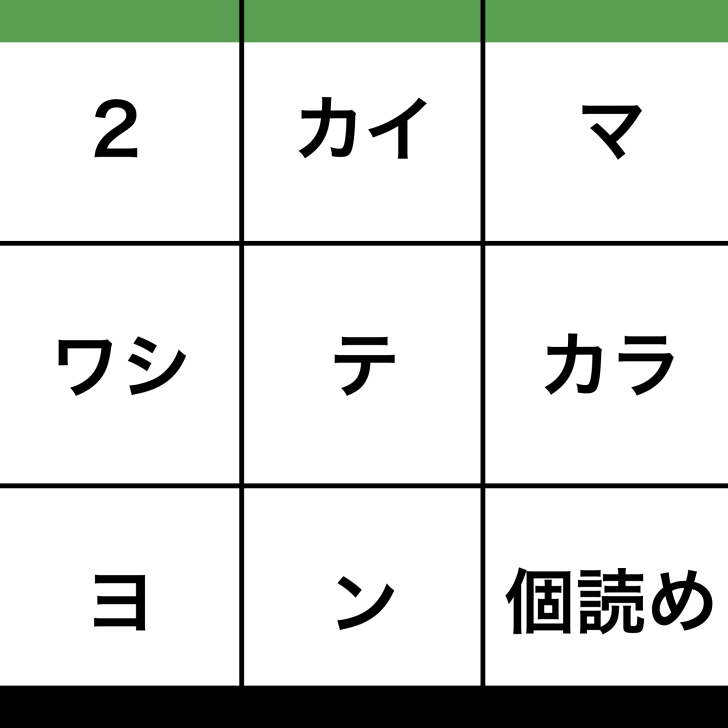
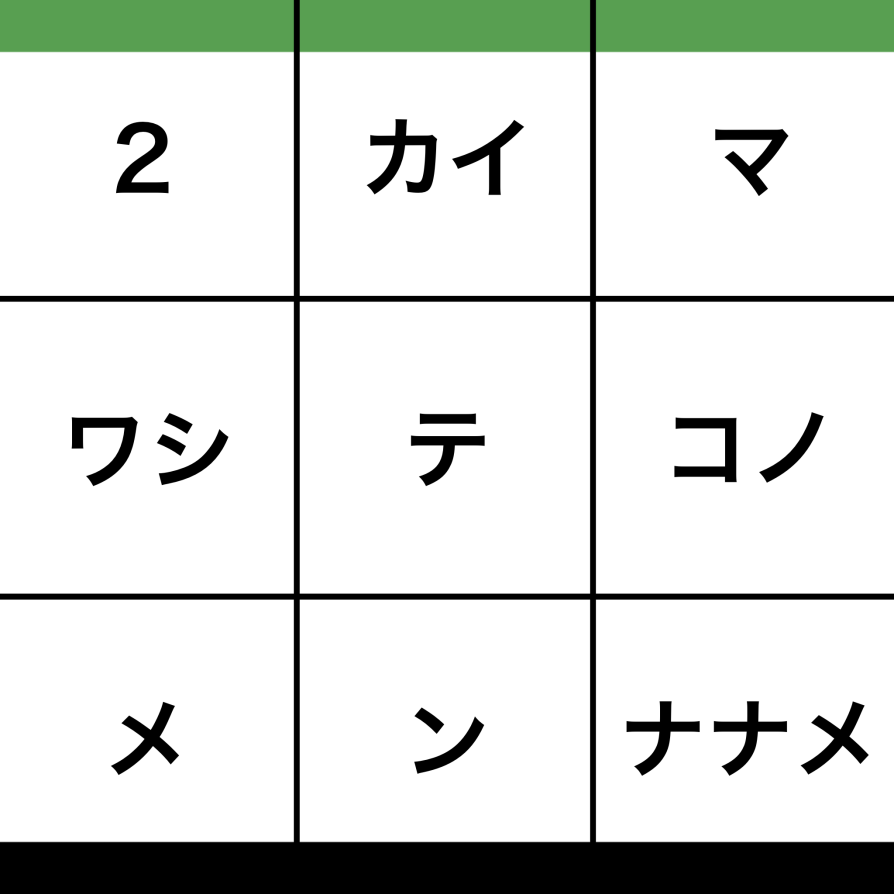
最終画像を変化させるボタンの実装

Changed region(s): [[0.6951, 0.7857, 0.9973, 0.8764], [0.7555, 0.4533, 0.9368, 0.544], [0.1209, 0.7857, 0.2115, 0.8764]]

diff --git a/main.js b/main.js
@@ -15,7 +15,8 @@ function getSaveData() {
         return {
             progress: (parsed && typeof parsed.progress === 'object') ? parsed.progress : {},
             hints: (parsed && typeof parsed.hints === 'object') ? parsed.hints : {},
-            answers: (parsed && typeof parsed.answers === 'object') ? parsed.answers : {} // ★追加
+            answers: (parsed && typeof parsed.answers === 'object') ? parsed.answers : {},
+            isBackgroundRevealed: (parsed && typeof parsed.isBackgroundRevealed === 'boolean') ? parsed.isBackgroundRevealed : false
         };
     }
     catch (e) {
@@ -37,6 +38,12 @@ function saveAnswerUnlocked(problemId) {
     const data = getSaveData();
     data.answers[problemId] = true;
     localStorage.setItem('mysteryGameSaveDataV2', JSON.stringify(data));
+}
+// 画像が切り替わった状態を保存する
+function saveBackgroundRevealed() {
+    const data = getSaveData();
+    data.isBackgroundRevealed = true;
+    localStorage.setItem('mysteryGameSaveDataV3', JSON.stringify(data));
 }
 function applyCorrectState(problemId, ansIdx, isRestoring = false) {
     const inputElement = document.getElementById(`answer-${problemId}-${ansIdx}`);
@@ -88,6 +95,18 @@ function restoreState() {
         const unlockedCount = data.hints[problemId];
         unlockHints(problemId, unlockedCount);
     }
+    const mainBg = document.getElementById('main-background');
+    const revealBtn = document.getElementById('reveal-last-image-btn');
+    if (data.isBackgroundRevealed) {
+        if (mainBg)
+            mainBg.src = 'assets/images/block_last.png';
+        if (revealBtn) {
+            revealBtn.disabled = true;
+            revealBtn.textContent = "解放済み";
+        }
+    }
+    // 最後にタイルが全開かチェック
+    checkAllTilesOpened();
 }
 // ヒントボタンの disabled を解除する関数
 function unlockHints(problemId, unlockedCount) {
@@ -100,7 +119,7 @@ function unlockHints(problemId, unlockedCount) {
             }
         });
     }
-    // ★追加：すべてのヒントを解放したかチェックして、答えボタンを有効化する
+    // すべてのヒントを解放したかチェックして、答えボタンを有効化する
     const problem = gameData?.problems.find(p => p.id === problemId);
     if (problem && problem.hints) {
         // 現在の解放数(unlockedCount)が、ヒントの総数と同じになったら
@@ -142,6 +161,16 @@ function showCustomConfirm(message) {
         okBtn.addEventListener('click', onOk);
         cancelBtn.addEventListener('click', onCancel);
     });
+}
+// 9枚のタイルがすべて消えているか確認し、ボタンを有効化する関数
+function checkAllTilesOpened() {
+    const allTiles = document.querySelectorAll('.tiles img');
+    const hiddenTiles = document.querySelectorAll('.hidden-tile');
+    const revealBtn = document.getElementById('reveal-last-image-btn');
+    // タイルが9枚あり、かつ全てが隠れて(hidden)いればボタンを解放
+    if (revealBtn && allTiles.length > 0 && allTiles.length === hiddenTiles.length) {
+        revealBtn.disabled = false;
+    }
 }
 function setupEventListeners() {
     const appContent = document.getElementById('app-content');
@@ -219,7 +248,7 @@ function setupEventListeners() {
                 // ★ここを修正：spanタグとクラスを付与
                 return `<span class="answer-highlight">${label}${ans.display}</span>`;
             }).join('\n');
-            // ★追加：解説のテキストを作成
+            // 解説のテキストを作成
             let explanationText = "";
             if (problem.explanation) {
                 explanationText = `【解説】\n${problem.explanation.text}`;
@@ -234,7 +263,7 @@ function setupEventListeners() {
                 modalTitle.style.color = '#000000'; // ★答えの時は赤色にして警告感を出す
                 // ★答えと解説を合体させて表示
                 modalText.innerHTML = answerTexts + explanationText.replace(/\n/g, '<br>');
-                // ★追加：解説画像がある場合は表示する
+                // 解説画像がある場合は表示する
                 if (problem.explanation && problem.explanation.imagePath) {
                     modalImage.src = problem.explanation.imagePath;
                     modalImage.style.display = 'block';
@@ -246,6 +275,25 @@ function setupEventListeners() {
                 modal.classList.remove('hidden');
             }
             return; // ここでリターンするので、下の送信ボタンの処理には行かない
+        }
+        // 【1.8】「すべて開けたら押せ」ボタンが押された時の処理
+        const revealBtnClicked = target.closest('#reveal-last-image-btn');
+        if (revealBtnClicked) {
+            const mainBg = document.getElementById('main-background');
+            if (!mainBg)
+                return;
+            // ボタンをもう押せないようにし、テキストを変える
+            revealBtnClicked.disabled = true;
+            revealBtnClicked.textContent = "解放済み";
+            // 状態をセーブ
+            saveBackgroundRevealed();
+            // アニメーション：一度透明にして、裏で画像を差し替え、また透明度を戻す
+            mainBg.style.opacity = '0'; // ふわっと消える
+            setTimeout(() => {
+                mainBg.src = 'assets/images/block_last.png'; // 画像をチェンジ
+                mainBg.style.opacity = '1'; // ふわっと現れる
+            }, 800); // 0.8秒待つ（CSSの transition 0.8s と合わせる）
+            return; // ここでリターン
         }
         // 【2】送信（解答）ボタンが押された時の処理
         const submitBtn = target.closest('.check-button-inline');
@@ -277,6 +325,8 @@ function setupEventListeners() {
             // 正解状態の適用
             applyCorrectState(problemId, currentInputIdx);
             saveProgress(problemId, currentInputIdx + 1);
+            // 正解するたびに、すべてのタイルが開いたかチェックする！
+            checkAllTilesOpened();
             // 全て正解したらタイルを消す、または遷移
             if (currentInputIdx + 1 === problem.answers.length) {
                 if (problem.type === 'final') {

diff --git a/style.css b/style.css
@@ -496,6 +496,37 @@ body {
     padding-bottom: 5px;
 }
 
+/* ============================== 最終画像切り替えボタン ============================== */
+.reveal-btn {
+    background-color: #443088;
+    /* ★指定の紫色 */
+    color: white;
+    border: none;
+    border-radius: 8px;
+    padding: 14px 20px;
+    font-size: 16px;
+    font-weight: bold;
+    cursor: pointer;
+    width: 100%;
+    margin-bottom: 20px;
+    /* 最終問題との間に少し隙間を空ける */
+    transition: all 0.3s ease;
+    box-shadow: 0 4px 10px rgba(0, 0, 0, 0.2);
+}
+
+/* まだ9つの問題が終わっていない状態（グレー） */
+.reveal-btn:disabled {
+    background-color: #777;
+    color: #ccc;
+    cursor: not-allowed;
+    box-shadow: none;
+}
+
+/* ★画像がふわっと切り替わるための設定 */
+#main-background {
+    transition: opacity 0.8s ease-in-out;
+}
+
 /* ============================== 最終問題専用エリア ============================== */
 
 /* 最終問題の入力エリア（画像とタイルのすぐ下に配置） */

diff --git a/form.js b/form.js
@@ -75,11 +75,14 @@ export function createForms() {
             // --- 最終問題の場合：game-containerの下に配置 ---
             if (finalFormContainer) {
                 finalFormContainer.innerHTML = `
+                    <button type="button" id="reveal-last-image-btn" class="reveal-btn" disabled>すべて開けたら押せ</button>
+
                     <div class="final-problem-content" id="problem-card-${p.id}">
                         ${generateContentHtml(p.content, p.id)}
                         <div class="problem-bottom" id="inputs-container-${p.id}">
                             ${generateInputHtml(p.id, 0)}
                         </div>
+                        <div id="extra-msg-area-${p.id}"></div>
                         ${generateHintsHtml(p.id, p.hints)}
                         ${generateAnswerButtonHtml(p.id, p.hints)}
                     </div>

diff --git a/index.html b/index.html
@@ -16,7 +16,7 @@
     <div id="app-content" class="app-container" style="display: none;">
         <div id="form-area" class="form-wrapper"></div>
         <div class="game-container">
-            <img src="assets/images/750x750.png" class="background" alt="クリア画像" />
+            <img src="assets/images/750x750.png" class="background" id="main-background" alt="クリア画像" />
 
             <div class="save-guard"></div>
 
